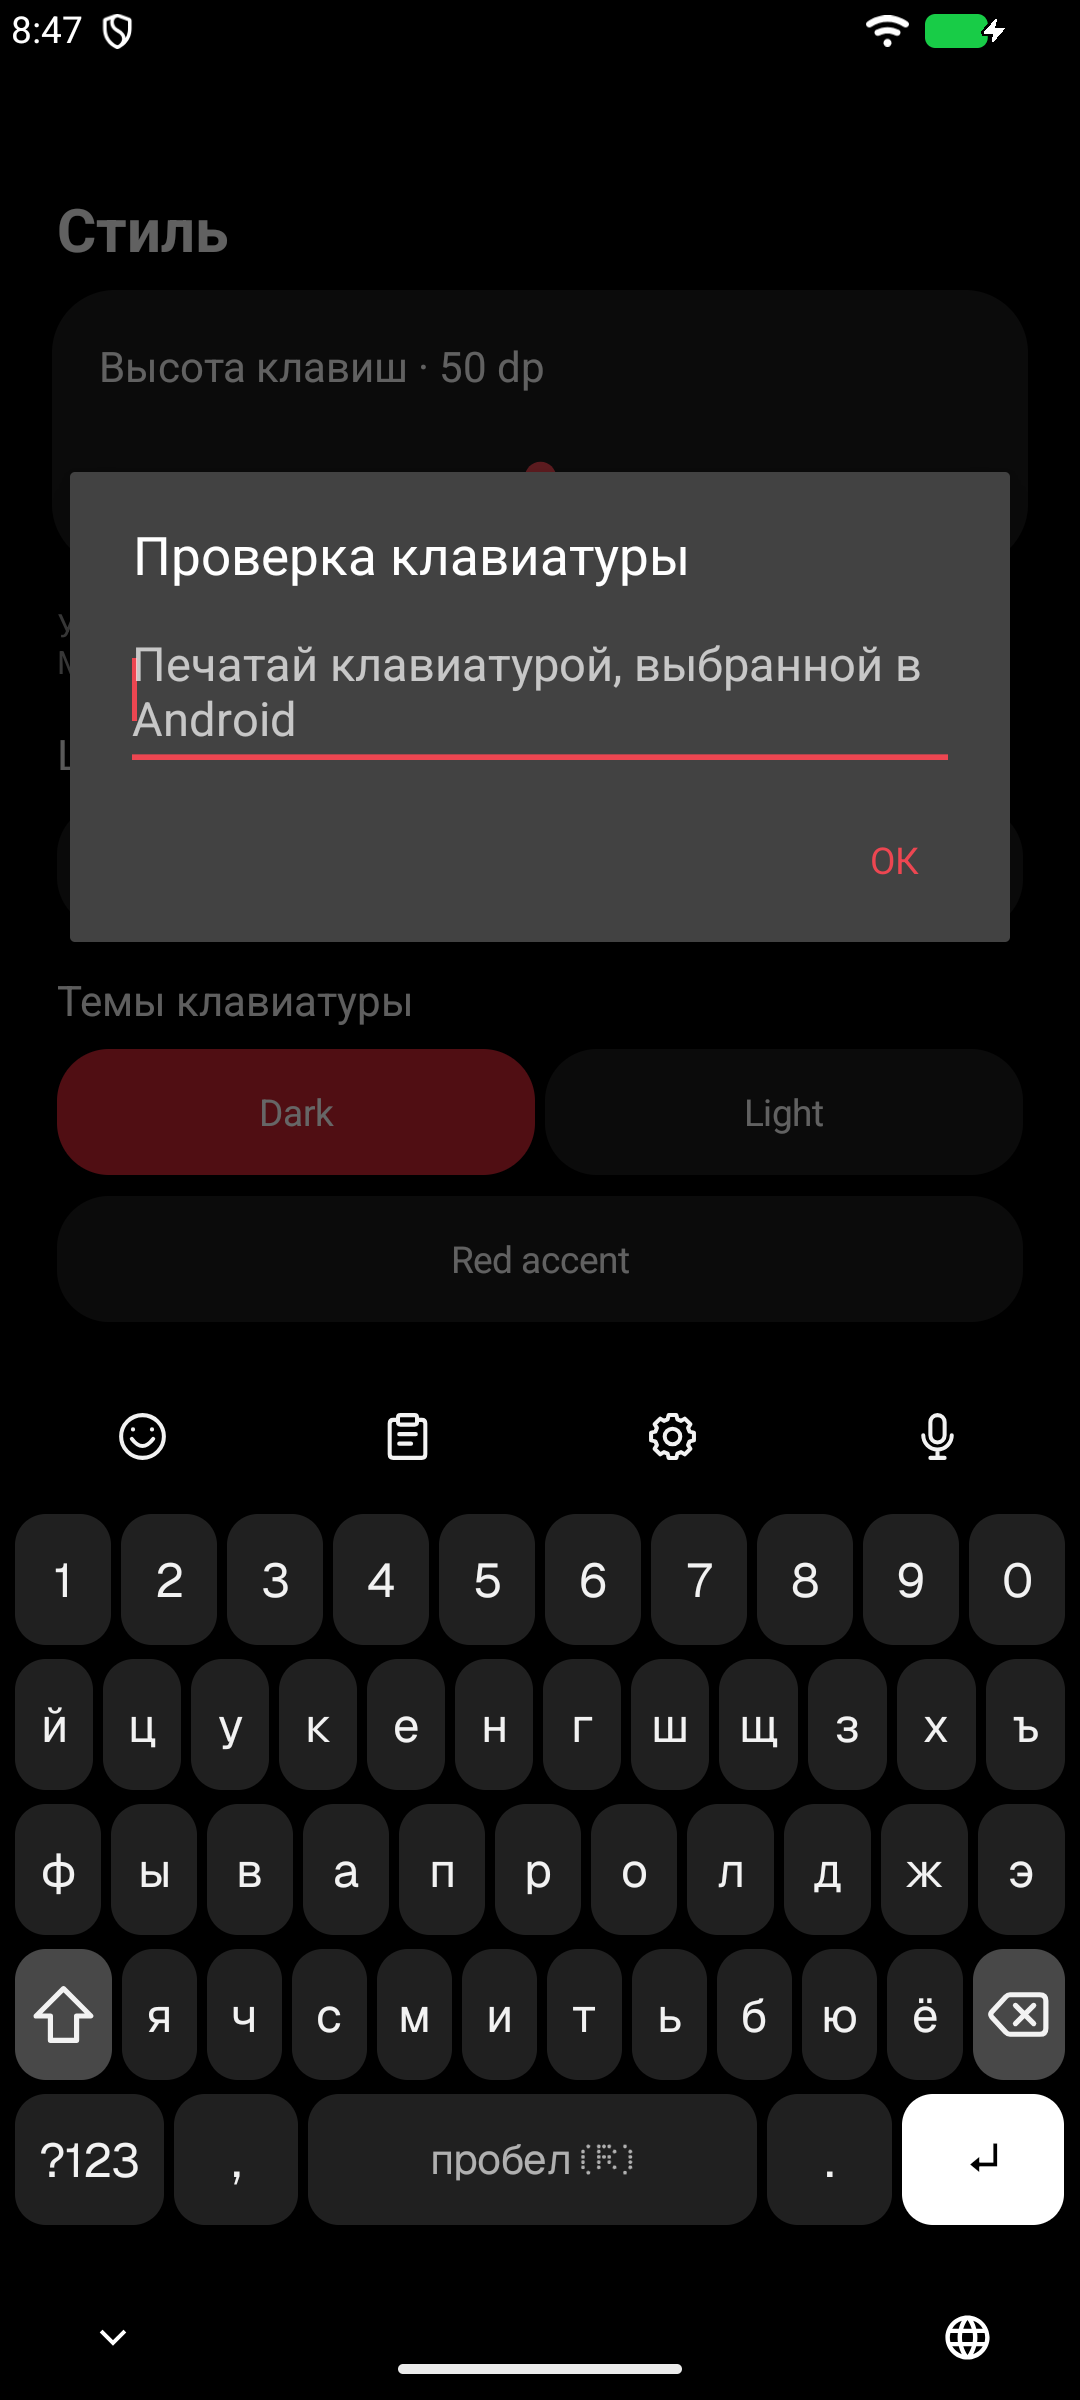
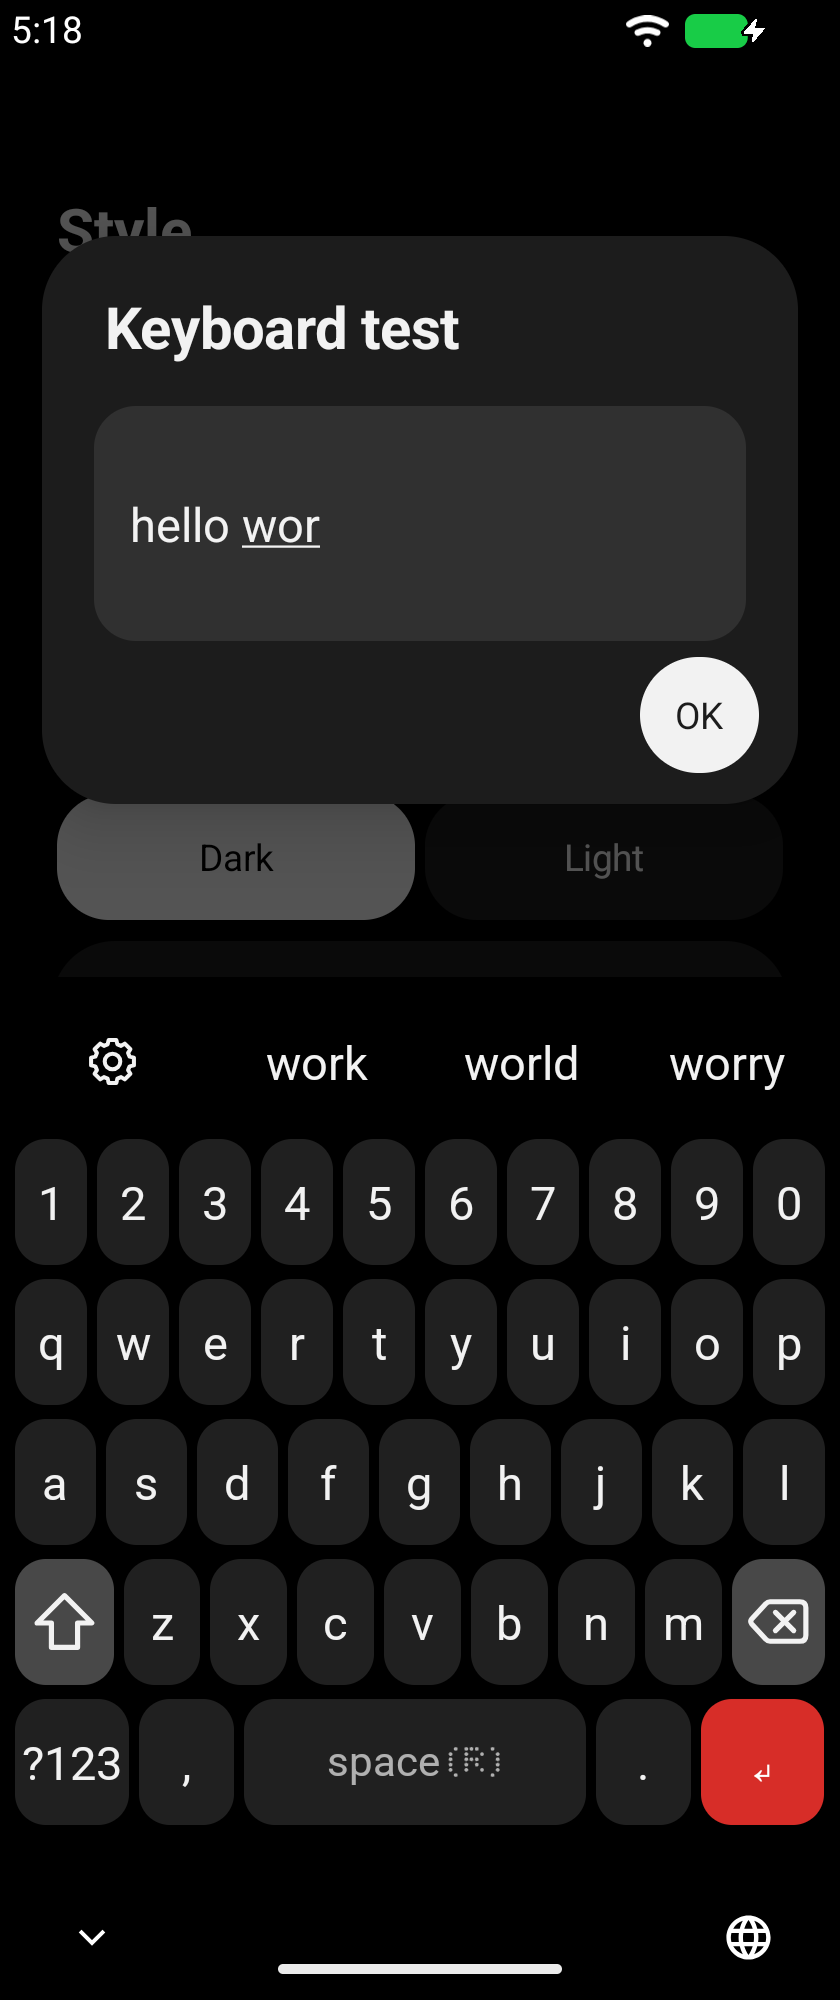
Refresh project page and stabilize Android IME checks

diff --git a/app/src/androidTest/java/dev/nothingtype/testing/EditorSmokeInstrumentation.kt b/app/src/androidTest/java/dev/nothingtype/testing/EditorSmokeInstrumentation.kt
@@ -2,6 +2,7 @@ package dev.nothingtype.testing
 
 import android.app.Activity
 import android.app.Instrumentation
+import android.content.ComponentName
 import android.content.Intent
 import android.graphics.Rect
 import android.os.Bundle
@@ -31,7 +32,11 @@ class EditorSmokeInstrumentation : Instrumentation() {
         val result = Bundle()
         var code = Activity.RESULT_CANCELED
         val packageName = targetContext.packageName
-        val ime = "$packageName/dev.nothingtype.ime.NothingTypeIme"
+        val component = ComponentName(packageName, "dev.nothingtype.ime.NothingTypeIme")
+        val ime = component.flattenToString()
+        fun selectedIme() = shell("settings get secure default_input_method").trim()
+        fun listedImes(command: String) = shell(command).lineSequence()
+            .mapNotNull { ComponentName.unflattenFromString(it.trim()) }
         var oldIme: String? = null
         var oldHardwareIme: String? = null
         var wasEnabled = true
@@ -41,13 +46,17 @@ class EditorSmokeInstrumentation : Instrumentation() {
             uiAutomation.serviceInfo = uiAutomation.serviceInfo.apply {
                 flags = flags or AccessibilityServiceInfo.FLAG_RETRIEVE_INTERACTIVE_WINDOWS
             }
-            oldIme = shell("settings get secure default_input_method").trim()
-            wasEnabled = shell("ime list -s").lineSequence().any { it.trim() == ime }
+            oldIme = selectedIme()
+            await("Android registers $ime") { component in listedImes("ime list -a -s") }
+            wasEnabled = component in listedImes("ime list -s")
             oldHardwareIme = shell("settings get secure show_ime_with_hard_keyboard").trim()
             shell("settings put secure show_ime_with_hard_keyboard 1")
-            shell("ime enable $ime")
-            shell("ime set $ime")
-            check(shell("settings get secure default_input_method").trim() == ime)
+            val enableResult = shell("ime enable $ime 2>&1").trim()
+            await("Android enables $ime ($enableResult)") { component in listedImes("ime list -s") }
+            val selectResult = shell("ime set $ime 2>&1").trim()
+            await("Android selects $ime ($selectResult)") {
+                ComponentName.unflattenFromString(selectedIme()) == component
+            }
             val editorActivity = startActivitySync(Intent(targetContext, EditorFixtureActivity::class.java)
                 .addFlags(Intent.FLAG_ACTIVITY_NEW_TASK)) as EditorFixtureActivity
             activity = editorActivity
@@ -87,8 +96,7 @@ class EditorSmokeInstrumentation : Instrumentation() {
             await("lowercase keys for T9") { key(typo.first().toString()) != null }
             tapSequence(*(typo.map(Char::toString) + space).toTypedArray())
             await("T9 corrects the word on space") { read(editorActivity.editor) == corrected }
-            check(checkNotNull(key(targetContext.getString(R.string.delete_character)))
-                .performAction(AccessibilityNodeInfo.ACTION_CLICK))
+            tapSequence(targetContext.getString(R.string.delete_character))
             await("Backspace undoes the T9 correction") { read(editorActivity.editor) == typo }
             tapSequence(space)
             await("space keeps the explicitly restored word") { read(editorActivity.editor) == "$typo " }
@@ -235,8 +243,7 @@ class EditorSmokeInstrumentation : Instrumentation() {
                     "bonjjour".forEach { press(it.toString()) }
                     press(space)
                     await("French autocorrect") { read(editor) == "bonjour " }
-                    check(checkNotNull(key(targetContext.getString(R.string.delete_character)))
-                        .performAction(AccessibilityNodeInfo.ACTION_CLICK))
+                    tapSequence(targetContext.getString(R.string.delete_character))
                     await("French correction undo") { read(editor) == "bonjjour" }
                     clearEditor()
                 }

diff --git a/README.md b/README.md
@@ -1,30 +1,65 @@
-# Nothing Type
+<p align="center"><img src="design/logo/icon-512.png" width="96" alt="Nothing Type app icon"></p>
 
-English · [Русский](README.ru.md)
+<h1 align="center">Nothing Type</h1>
 
-[![Android build](https://github.com/CVRSPOTTED/nothing-type/actions/workflows/android.yml/badge.svg)](https://github.com/CVRSPOTTED/nothing-type/actions/workflows/android.yml)
+<p align="center">An open-source Android keyboard inspired by Nothing OS.</p>
 
-An independent Android keyboard inspired by Nothing OS. It runs on Android 8.0 and later.
+<p align="center">
+  <a href="https://github.com/CVRSPOTTED/nothing-type/releases/download/v0.7.0/nothing-type-0.7.0.apk"><strong>Download APK 0.7.0</strong></a> ·
+  <a href="https://github.com/CVRSPOTTED/nothing-type/releases">All releases</a> ·
+  <a href="README.ru.md">Русский</a>
+</p>
 
-[Download from GitHub Releases](https://github.com/CVRSPOTTED/nothing-type/releases)
+[![Android checks](https://github.com/CVRSPOTTED/nothing-type/actions/workflows/android.yml/badge.svg?branch=main)](https://github.com/CVRSPOTTED/nothing-type/actions/workflows/android.yml)
+
+## Screenshots
+
+| Typing | Settings | Style |
+| :---: | :---: | :---: |
+| <img src="screenshots/keyboard.png" width="240" alt="Dark keyboard with word suggestions and a red Enter key"> | <img src="screenshots/settings.png" width="240" alt="App and keyboard language settings"> | <img src="screenshots/style.png" width="240" alt="Keyboard theme and font controls"> |
 
 ## Features
 
-- **Eight languages** for the app and keyboard. English, Russian, French, German, Hindi, Arabic, Turkish and Spanish.
-- **Offline typing help.** Each built-in layout has 10,000 dictionary entries, word suggestions, autocorrect and your own words. Backspace can undo a correction.
-- **Layout controls.** Hold Space or use a dedicated key to switch languages. Import a KLC file for a custom typing layout.
-- **Editing and input.** Move the cursor with Space, hold keys for extra characters, use 3,781 emoji or dictate through Android’s speech service.
-- **Appearance and placement.** Choose a dark or light keyboard, an optional red Enter key, Roboto or Geist, or import Ndot. Adjust key size, spacing, corner radius and position.
-- **Feedback.** Optional vibration and a keyboard glow that responds to dictation.
+### Typing and languages
 
-## Setup
+- Eight app languages and keyboard layouts covering English, Russian, French, German, Hindi, Arabic, Turkish and Spanish.
+- Offline suggestions and autocorrect with 10,000 dictionary entries per built-in layout. Add your own words and undo a correction with Backspace.
+- Switch languages by holding Space or tapping a dedicated key. Import a KLC file for a custom layout.
 
-Install the APK, open Nothing Type, and enable and select the keyboard in Android. Use **Settings** for languages and typing, and **Style** for appearance. **Try typing** opens a test field.
+### Editing and voice
 
-Suggestions run on your device. Nothing Type keeps no typing history. Dictation may need internet access, depending on the Android speech service. [Privacy policy](PRIVACY.md)
+- Slide across Space to move the cursor. Hold keys for alternate characters or hold Backspace to repeat deletion.
+- Pick from 3,781 emoji, paste from the clipboard or dictate using Android’s speech service. Dictation may require internet access.
+- Suggestions stay on your device. Nothing Type keeps no typing history. See the [privacy policy](PRIVACY.md).
 
-## Build and release
+### Appearance and feedback
 
-[Build instructions](docs/BUILD.md) · [Signing](docs/RELEASE.md) · [Validation](docs/VALIDATION_0.7.0.md) · [Changelog](CHANGELOG.md) · [Licenses](THIRD_PARTY.md)
+- Dark and light keyboards, an optional red Enter key, Roboto and Geist, and Ndot font import.
+- Adjust key height, spacing, corner radius and keyboard position. Try your changes from the app.
+- Optional vibration and a keyboard glow that reacts to your voice during dictation.
 
-The app code is [MIT](LICENSE). The word lists are [CC BY-SA 4.0](app/src/main/assets/dictionaries/SOURCE.md).
+## Install
+
+1. Download and install the [signed APK](https://github.com/CVRSPOTTED/nothing-type/releases/tag/v0.7.0). The minimum OS version is Android 8.0.
+2. Open Nothing Type. On **Enable**, turn on the keyboard in Android settings, then select it as your input method.
+3. Use **Settings** for languages and typing, and **Style** for appearance. Tap **Try typing** to test your changes.
+
+## Build locally
+
+With JDK 17 and Android SDK 36, run the checks and build a debug APK.
+
+```sh
+bash ./gradlew testDebugUnitTest :swipe-research:test lintDebug assembleDebug
+```
+
+On Windows, run the same tasks with `gradlew.bat`. See the [build guide](docs/BUILD.md) for SDK setup.
+
+| Path | Contents |
+| --- | --- |
+| `app/` | Android app, keyboard and tests |
+| `swipe-research/` | Experimental swipe decoder |
+| `docs/` | Build, testing and release guides |
+
+[Report an issue](https://github.com/CVRSPOTTED/nothing-type/issues) · [Changelog](CHANGELOG.md) · [Third-party licenses](THIRD_PARTY.md)
+
+The app code uses the [MIT license](LICENSE). The bundled word lists use [CC BY-SA 4.0](app/src/main/assets/dictionaries/SOURCE.md).

diff --git a/CHANGELOG.md b/CHANGELOG.md
@@ -1,6 +1,6 @@
 # История изменений
 
-## 0.7.0 — готовится к выпуску
+## 0.7.0
 
 - Восемь языков интерфейса и клавиатуры. Язык приложения можно выбрать при первом запуске или в настройках.
 - Офлайн-подсказки, автоисправление и свои слова для всех восьми встроенных раскладок. По 10 000 слов на язык.
